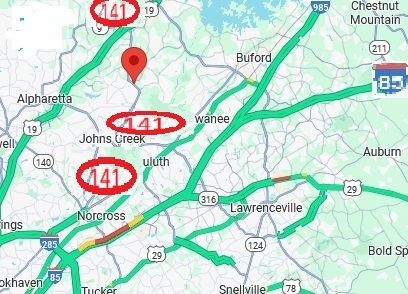
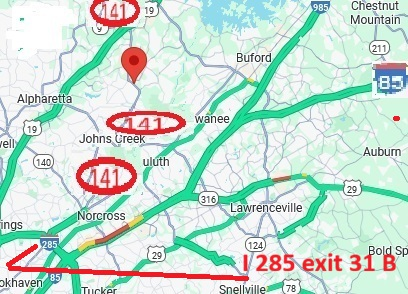
March 9, 2026

Changed region(s): [[0.0, 0.8265, 0.9706, 0.9796], [0.9412, 0.398, 1.0, 0.4286]]

diff --git a/right.html b/right.html
@@ -119,9 +119,7 @@ mathematician Georgia Southern Statesboro mathematics math computer science stat
 
 <LI>Retired as of 7/1/2014.</li>
 
-<BR>
-</LI>
-<BR>
+
 
 
        <IMG src="gifs/M.gif">athematics
@@ -156,30 +154,29 @@ mathematician Georgia Southern Statesboro mathematics math computer science stat
        <LI>Teaching <A
         href="http://www.mcrel.org/resources/links/math.asp">site</A>.
       </LI>
-  -->
+
     
 
      <BR><IMG src="gifs/C.gif">omputer Science
 
      <BR>
-<!--
+
         <LI><A
         href="cs/csc1/middle.html"
         target=_top>CSC1</A>.
       </LI>
--->
+
         
         <BR>
           <IMG src="gifs/S.gif">tatistics
           <BR>
-<!--
+
         <LI>Computer <A
         href="announcementstat.html">assignments</A>.
 
         <LI>Statistical <A
         href="flo.95.html">Process
         Control</A>.
--->
         
 <BR>
     
@@ -187,7 +184,7 @@ mathematician Georgia Southern Statesboro mathematics math computer science stat
     <IMG src="gifs/M.gif">iscellaneous
 
   <BR>
-<!--
+
       <LI>Scottish <A
         href="http://www2.georgiasouthern.edu/facstaff/rmackinn/sheritage.htm"
         target=_top>Heritage Society</A>
@@ -198,11 +195,11 @@ mathematician Georgia Southern Statesboro mathematics math computer science stat
         target=_top>Webcrawler</A>. <!--A HREF="photos.html"
        LISymbol a href="index2.html"keycaps/a
 -->
-<BR>
+<BR></menu>
 
 <IMG src="gifs/McL.gif">ean is the webmaster for the following:
 <BR>
-     
+     <MENU>
 <!--
       <LI>The <a href="spieth/spieth.html">Bill Spieth</a> Champions Page.
      
@@ -219,14 +216,28 @@ mathematician Georgia Southern Statesboro mathematics math computer science stat
 
 
 -->
-  <LI> Click on map<A
+  <LI>  <TABLE>
+  
+  <TR>
+    <TD>
+
+    
+
+ From I 285, <BR>take exit 31-B <BR>which is <BR> GA 141 North. <BR>Head for the <BR>red balloon.<BR>Turn right onto <BR>Bagley Dr.<BR>Click on the map
+
+     </TD><TD><A
 href="Celebration/bigEntrance.jpg" target=_top><IMG alt=GSU
-src="Celebration/big.jpg" align=middle homepage=""></A> The Ponderosa.
-<BR><!--img src= "/cgi-bin/Count.cgi?df=mac.dat"align=absmiddle
+src="Celebration/big.jpg" align=middle homepage=""></A>
+
+</td>
+   </TR>
+</tbody>
+</table>
+<!--img src= "/cgi-bin/Count.cgi?df=mac.dat"align=absmiddle
       <LI>Where I used to <A
         href="house.html">live</A>.</li>
 
-<!--<A
+
 href="http://www.georgiasouthern.edu/" target=_top><IMG alt=GSU
 src="gifs/left1.gif" align=middle homepage=""></A>Georgia Southern
        <LI><a href="spieth/bridge.html" target=_top>Open Pairs</a></li>
@@ -239,8 +250,8 @@ src="gifs/left1.gif" align=middle homepage=""></A>Georgia Southern
 
         <LI>Ternary <A
         href="ternary/netternary.html">Calculator</A>
-        </LI>
--->
+     
+-->   </LI>
 <LI> Atlanta <a href="Bridge/bridgeindex.html">Pairs.</a>
 </li>
 
@@ -258,13 +269,12 @@ src="gifs/left1.gif" align=middle homepage=""></A>Georgia Southern
 <TD>
 
     
-      <!--Img src="sidney4.jpeg"--><!--img src="wildcatlogo.gif"--><!--imgsrc="tubmug.gif"-->
+      <!--Img src="sidney4.jpeg"--><!--img src="wildcatlogo.gif"--><!--imgsrc="tubmug.gif"
       <table border=1>
 
 
 
 
-<!--
 
 
 
@@ -331,7 +341,7 @@ comments</A>.
    </TD>
    </TR>
   <TR>
-    <TD><FONT size=4><FONT size=-3>Last updated ==&gt; 3/3/2025</FONT></FONT>
+    <TD><FONT size=4><FONT size=-3>Last updated ==&gt; 3/9/2026</FONT></FONT>
     </TD>
   </TR>
 </TBODY>
